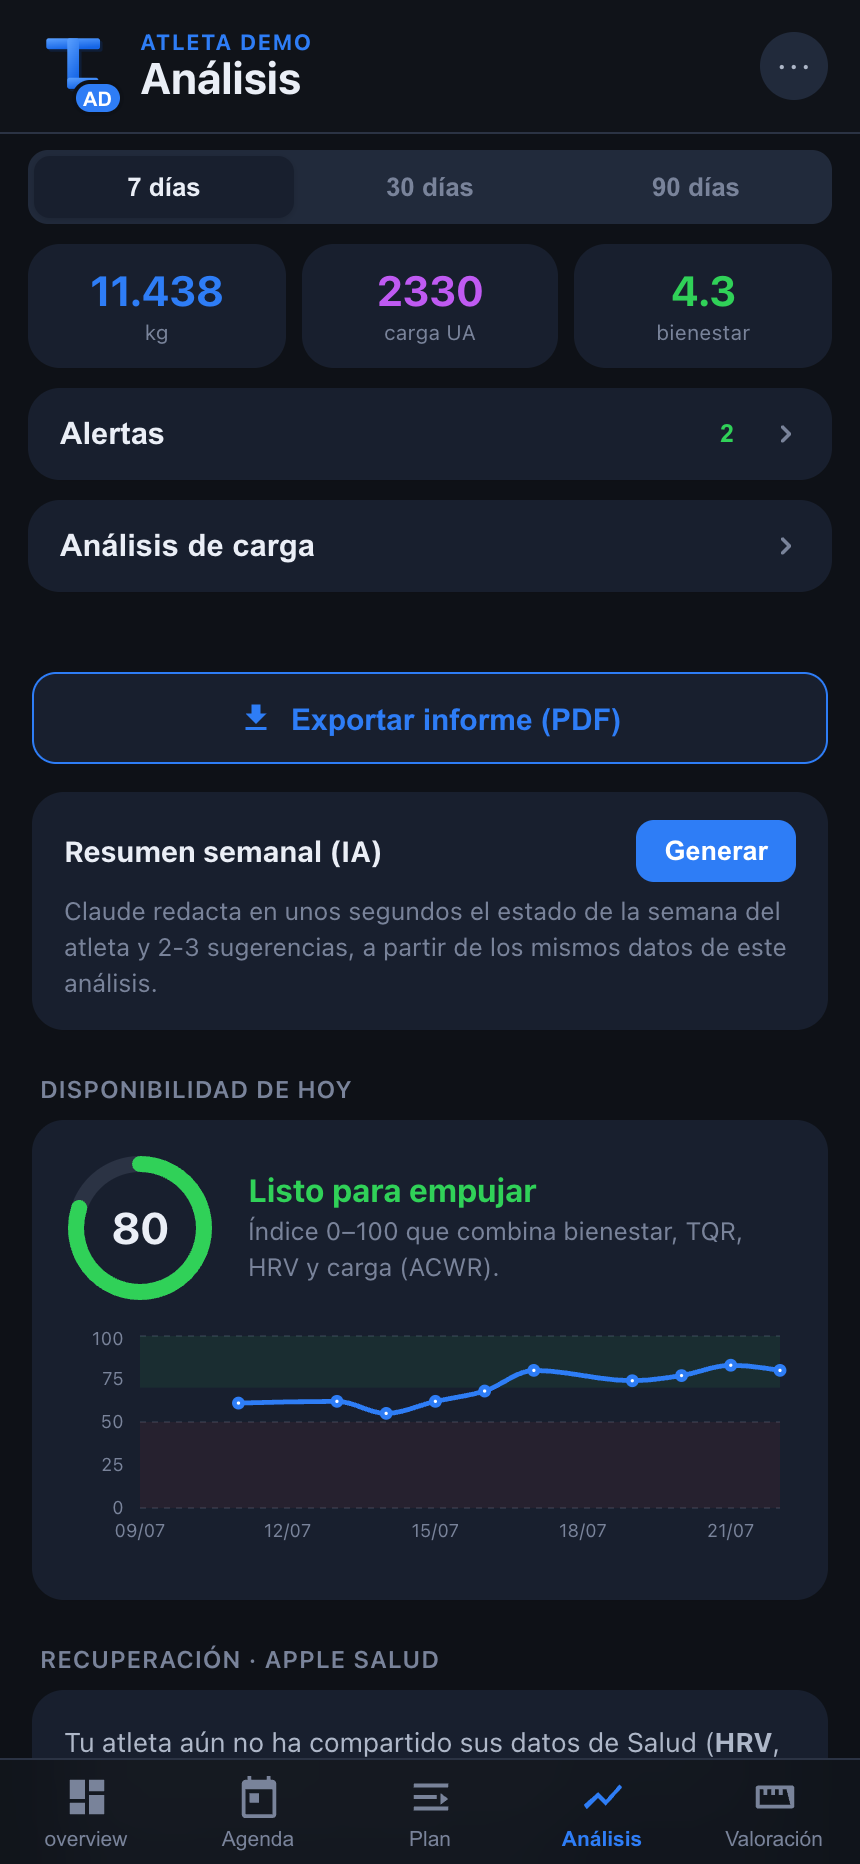
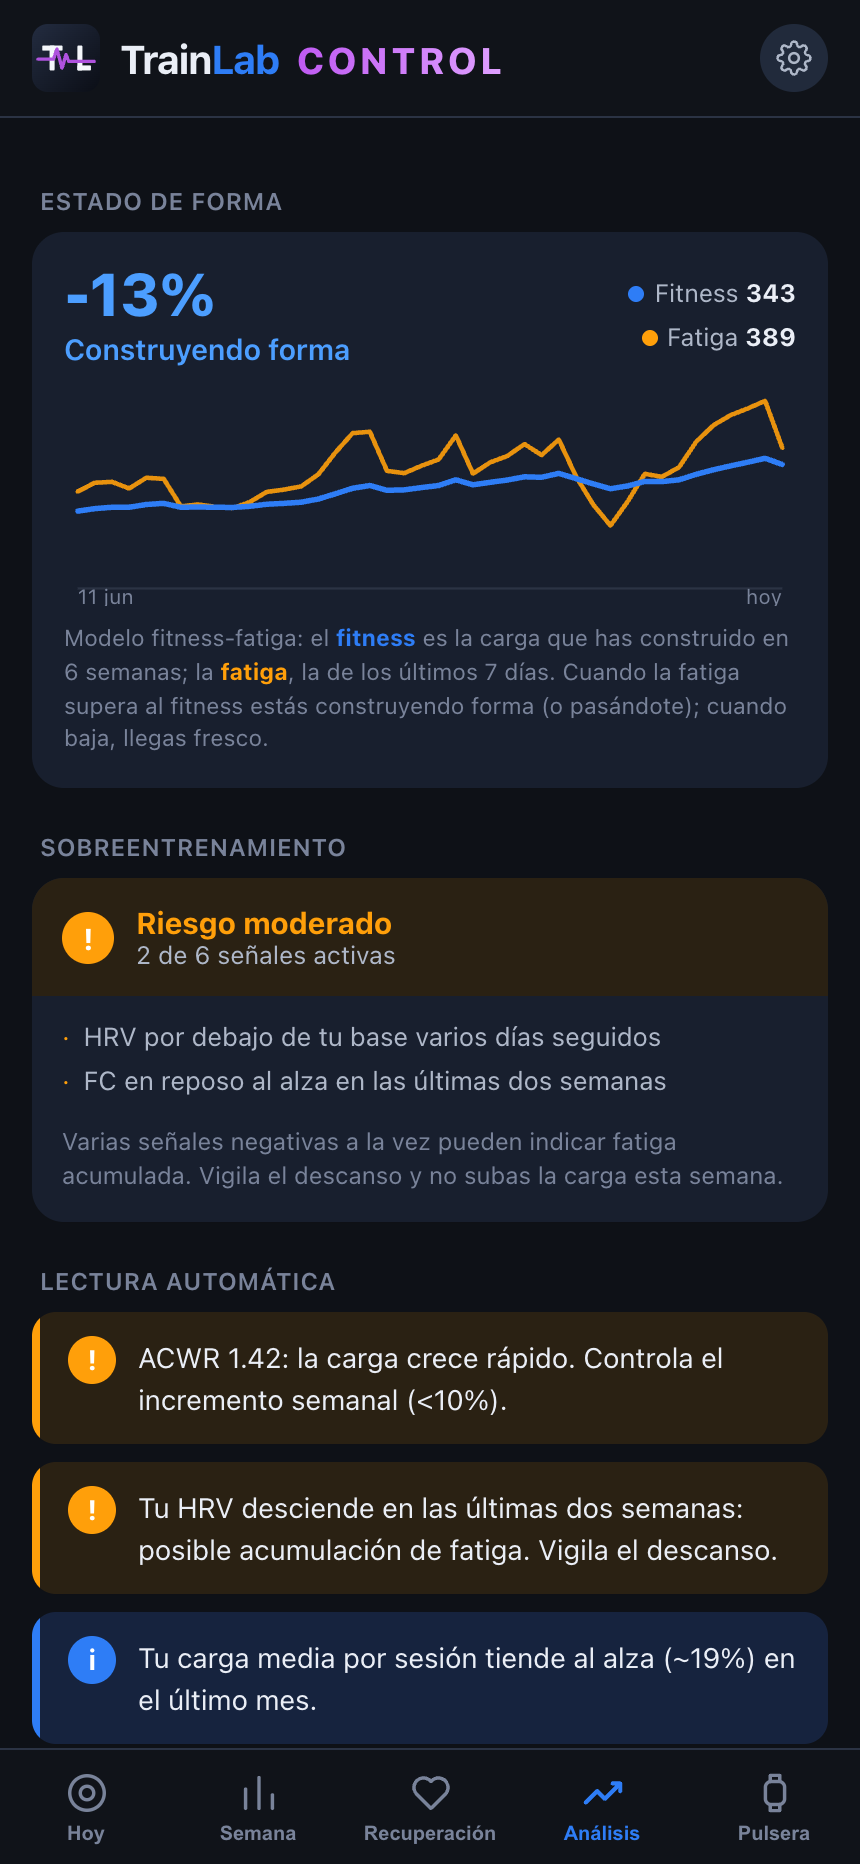
Capturas de la app CORRECTA: Control, no Fitness
Las capturas anteriores eran del panel de entrenador (Fitness). Se
reemplazan por las 5 pestañas de la app de Control (controlab-web),
tomadas de su modo demo web (DATOS_EJ), tema oscuro:
- Recuperación: HRV, FC en reposo y sueño frente a la base + tendencias.
- Análisis: estado de forma, riesgo de sobreentrenamiento, lecturas.
- Hoy: registro diario y disponibilidad.
- Semana: carga, OMS y recomendación.
- Pulsera: el dispositivo, batería y sincronización.

diff --git a/index.html b/index.html
@@ -174,11 +174,11 @@
       ],
       video: null, // cuando exista: "videos/control.mp4" en este mismo repo
       capturas: [
-        { src: "capturas/control-analisis.png", cap: "Análisis: disponibilidad diaria, carga y tendencia del atleta." },
-        { src: "capturas/control-valoracion.png", cap: "Valoración: batería de tests de fuerza, salto, ROM y más." },
-        { src: "capturas/control-resumen.png", cap: "Panel del entrenador: carga, alertas y atletas de un vistazo." },
-        { src: "capturas/control-agenda.png", cap: "Agenda: sesiones y citas en un calendario." },
-        { src: "capturas/control-plan.png", cap: "Plan: la programación del atleta, por disciplina." },
+        { src: "capturas/control-recup.png", cap: "Recuperación: tu HRV, FC en reposo y sueño frente a tu base, día a día." },
+        { src: "capturas/control-analisis.png", cap: "Análisis: estado de forma, riesgo de sobreentrenamiento y lecturas automáticas." },
+        { src: "capturas/control-hoy.png", cap: "Hoy: tu registro diario y la disponibilidad para entrenar." },
+        { src: "capturas/control-semana.png", cap: "Semana: carga, cumplimiento OMS y la recomendación de la semana." },
+        { src: "capturas/control-pulsera.png", cap: "Pulsera: tu dispositivo, batería y sincronización." },
       ],
       queHace: [
         "Convierte tu variabilidad cardiaca (HRV), tu pulso en reposo y tu sueño en una disponibilidad de 0 a 100 cada mañana.",
@@ -590,7 +590,7 @@
         marco.append(img, el("figcaption", null, c.cap || ""));
         fila.append(marco);
       });
-      t.append(el("p", "viz-sub", "Desliza para ver Análisis, carga, recuperación y más. Datos de ejemplo."), fila);
+      t.append(el("p", "viz-sub", "Desliza para ver recuperación, análisis y tu día a día. Datos de ejemplo."), fila);
     } else {
       var ph = el("div", "video-ph");
       ph.append(